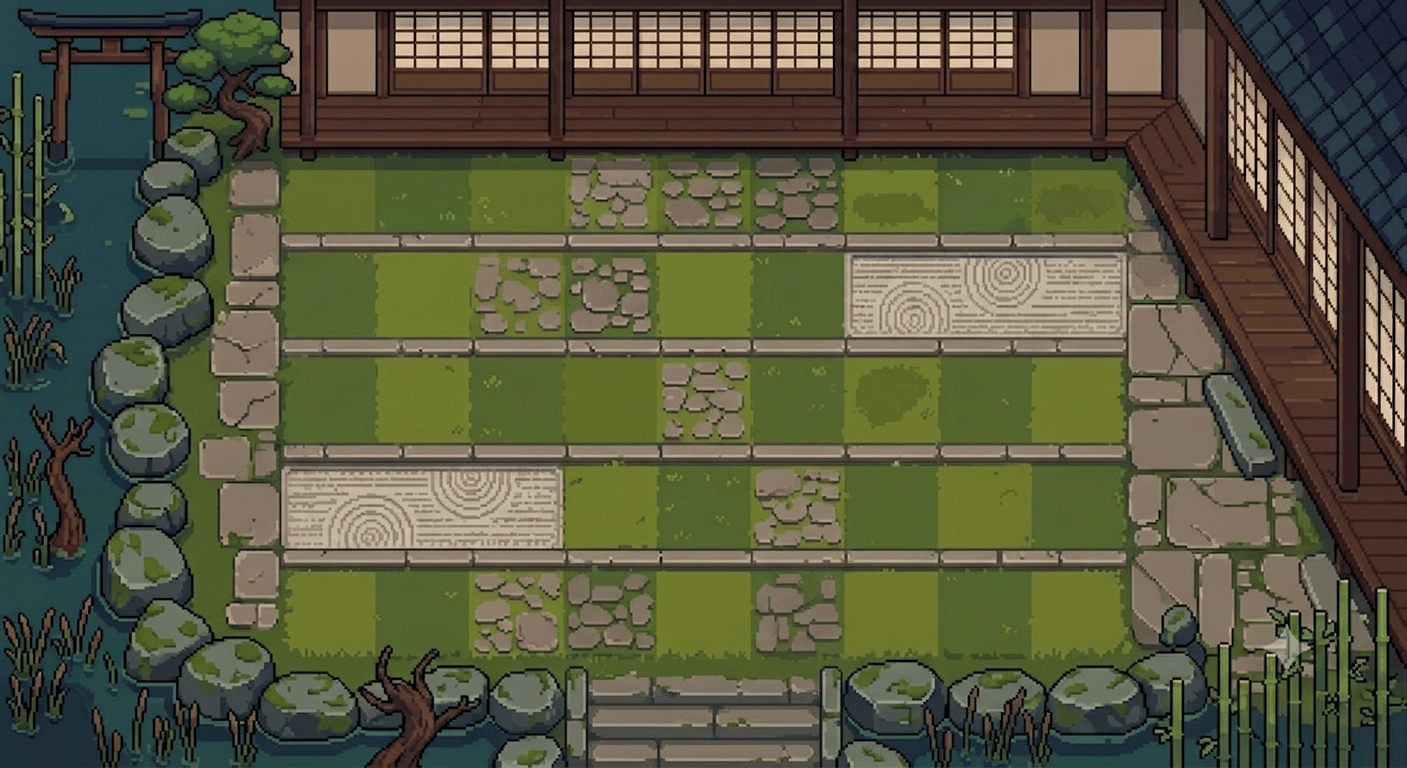
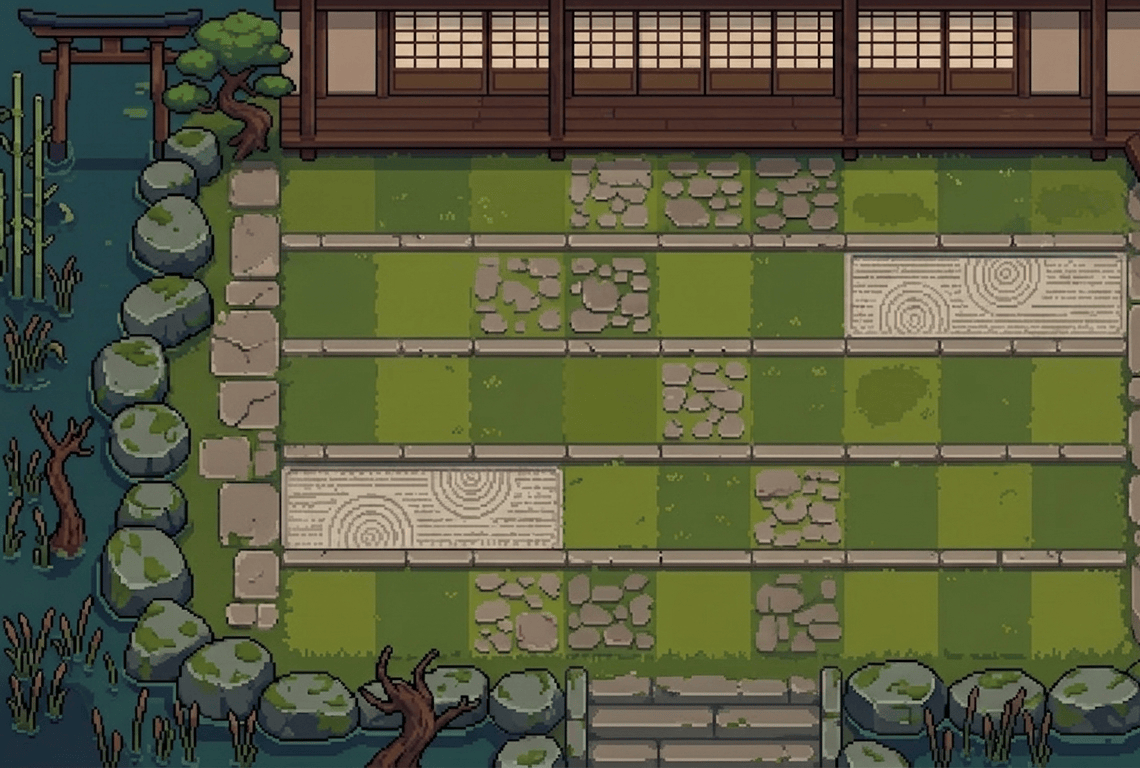
Crop the board to the lawn — the tide was walking on the roof
At full width the map carried the veranda decking and the roof east of the
playfield, and the muster sat out past both. Zombies formed up on architecture
and walked across it into the garden, with nothing to explain where they came
from. Sampling each lane's approach showed lane 0 crossing 60px of deck even
after a first crop to 1200 — the veranda dips into that row.

So the canvas now ends at the grid's own east edge, 1140. Every lane walks in
over ground. The muster is off-screen at 1180 and the field is unchanged: nine
columns of 95px from x 285, each still centred on its painted square to 0.0px.

Campaign re-simulating; the previous board measured wave 69 against a reference
of 72, inside this sim's own spread.

Claude-Session: https://claude.ai/code/session_01DtMCnApf1adnVkvtJGaHN8

diff --git a/game.html b/game.html
@@ -1341,7 +1341,7 @@ const starMul = id => 1 + stars(id) * 0.06;
    slight perspective, with bands from 66px at the top to 114px at the
    bottom — so rows come from a measured table rather than a fixed pitch.
    Columns are uniform across the grass, which runs x 124..1114.        */
-const VW = 1407, VH = 768;
+const VW = 1140, VH = 768;
 /* The map draws its own grid, and the code uses it. Each lane is painted as a
    checkerboard, and that is the grid a player reads — a duck centred in a code
    tile that does not line up with the paint stands half in one square and half
@@ -1373,17 +1373,19 @@ const FIELD_BOT = LANES[ROWS - 1].bot;
 const WARD_X = 180;
 const WARD_LINE = WARD_X + 16;
 
-/* How far east the tide forms up. This sets how long a zombie spends being
-   shot at — the sum, over every tower, of the distance it covers while east of
-   that tower — which is the single biggest lever on difficulty.
+/* How far east the tide forms up — this sets how long a zombie spends being
+   shot at, the sum over every tower of the distance covered while east of it.
 
-   This map is wider than the last (1407 vs 1122) while the grid sits in the
-   same relative place, so the same off-screen muster gives every tower a longer
-   window: 124% of the value the campaign was tuned against. Holding the old
-   number would mean mustering at x 1277, which is 131px INSIDE the canvas —
-   zombies would blink into existence in front of the player. Visible pop-in is
-   a worse defect than a board that plays a little kinder, so the muster stays
-   off-screen and the difficulty is re-measured rather than assumed. */
+   The map is cropped to 1200 so that everything east of the lawn is gone. At
+   full width the tide mustered out past the veranda and the roof and was
+   visibly walking across elevated architecture on its way in, with no gate or
+   threshold to explain where it came from. Now it forms up just off the lawn's
+   own edge and walks straight on.
+
+   The arithmetic here has been unreliable: the uncropped board computed to 124%
+   of the reference shot-at distance yet simulated at wave 69 against a
+   reference of 72 — inside this sim's own +/-5 spread. So the muster sits at a
+   plain offset and the campaign is measured rather than predicted. */
 const SPAWN_X = VW + 40;
 
 /* Hit boundaries. The bands above describe where the GRASS is, which left the

diff --git a/CONCEPT.md b/CONCEPT.md
@@ -110,11 +110,11 @@ the run.
  ┌────┬────────┬────────────────────────────┬───────────┐
  │ 御 │        │ ·  ·  ·  ·  ·  ·  ·  ·  ·  │           │  ← lane 1  ward intact
  │ 札 │ bank   │ ·  ·  ·  ·  ·  ·  ·  ·  ·  │ walkway   │  ← lane 2
- │    │ pond   │ ·  ·  ·  ·  ·  ·  ·  ·  ·  │ rocks     │  ← lane 3   zombies
+ │    │ pond   │ ·  ·  ·  ·  ·  ·  ·  ·  ·  │           │  ← lane 3   zombies
  │ W  │ rocks  │ ·  ·  ·  ·  ·  ·  ·  ·  ·  │           │  ← lane 4    enter →
  │ A  │        │ ·  ·  ·  ·  ·  ·  ·  ·  ·  │           │  ← lane 5
  └────┴────────┴────────────────────────────┴───────────┘
- x180  approach  x285   9 columns × 95px  x1140      x1447 muster
+ x180  approach  x285   9 columns × 95px  x1140      x1180 muster
    ↑ ward + loss line     one per painted square
 ```
 
@@ -382,7 +382,7 @@ interpolated palette, the sun and moon ride the same arc half a cycle apart, sta
 fade in, and the whole field is washed in the light of whatever hour it is.
 
 **The battlefield is painted, and it ships in two layers.** The base
-(`assets/map.png`, 1407×768) is flat ground — lawn, kerbs, gravel, water — drawn
+(`assets/map.png`, 1140×768) is flat ground — lawn, kerbs, gravel, water — drawn
 1:1 with no resampling. Everything that *stands* on it (the shrubs, the potted
 bonsai, the fox) lives in `assets/props.png`, an image with alpha aligned to the
 same canvas.
